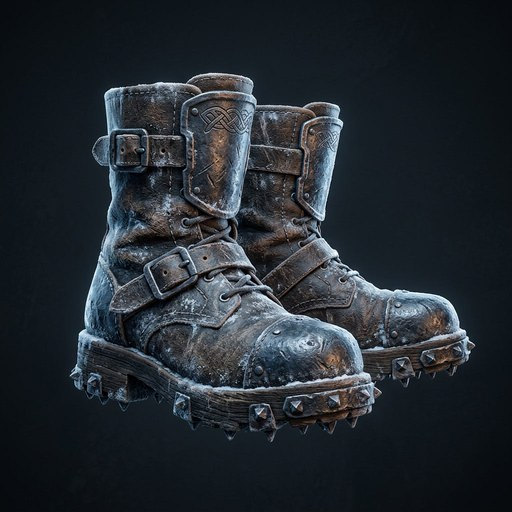
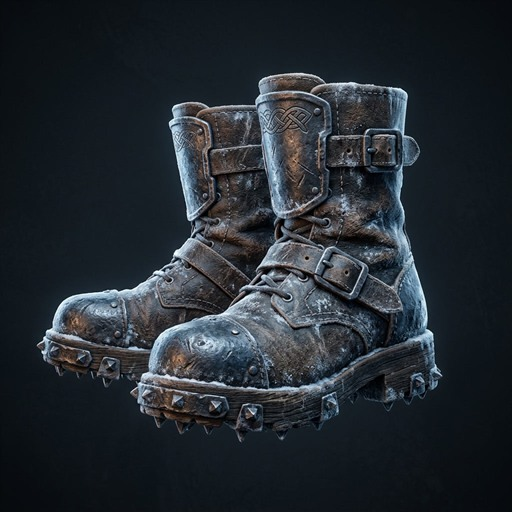
fix(esya): gorsellerin yonu teklestirildi -- hepsi sola bakiyor
Otuz gorselin hepsi etiketli kontakt sayfasina dizilip sayildi: yonu
gercekten belli olan iki grup var, atlar (6) ve cizmeler (3). Atlarin
dordu sola ikisi saga, cizmelerin burnu ise atlarin ters yonundeydi;
kusam izgarasinda yan yana duran iki esya birbirine ters bakiyordu.

Sol secildi cunku en buyuk yonlu grup olan atlarin cogunlugu zaten
oyleydi -- sag secilseydi dort atin sanati degisecekti. Aynalanan bes
dosya: kuzeyRuzgari, savasAti, demirNalliCizme, kurtPostuCizme,
kutupTilkisiPostu.

Aynalama ASILDAN yapildi (items/yedek/, 1024x1024), canli 512'likten
degil: canlidan aynalasaydik ikinci bir JPEG kaybi binerdi. yedek/
ellenmedi -- orasi asillarin arsivi, bu bes dosya ona gore aynali.

Aynalanan hicbir gorselde yazi/run yok (kontrol edildi).

diff --git a/client/src/data/yamaNotlari.js b/client/src/data/yamaNotlari.js
@@ -26,6 +26,22 @@
 
 export const YAMA_NOTLARI = [
   {
+    surum: '2026-09-16p',
+    tarih: '16 Eylül 2026',
+    baslik: 'Eşya görselleri aynı yöne bakıyor',
+    notlar: [
+      {
+        id: '20260916-esya-yonu',
+        tur: 'duzeltme',
+        metin: 'EŞYALARIN YÖNÜ DÜZELDİ. Atların ikisi sağa, dördü sola '
+          + 'bakıyordu; çizmelerin burnu da atların ters yönündeydi. '
+          + 'Kuşam ızgarasında yan yana duran iki eşyanın birbirine '
+          + 'ters bakması göze batıyordu. Artık yönü belli olan her '
+          + 'eşya sola bakıyor.',
+      },
+    ],
+  },
+  {
     surum: '2026-09-16o',
     tarih: '16 Eylül 2026',
     baslik: 'Kahraman görevleri',

diff --git a/TODO.md b/TODO.md
@@ -282,6 +282,18 @@ edilebilir boş slotlar orada listelensin (şu an boş hex'e tıklamak gerekiyor
 - **TARAYICIDA UÇTAN UCA DOĞRULANDI**: elçilik kuruldu (Lvl 20), panel "Elçiliğin Lvl 20, yani birliğe 60 üye sığar" diyor; "Kuzey Kurtları" kuruldu, panel "sen: Konung · 1/60" gösteriyor; oyuncu adıyla davet gönderildi ve "CEVAP BEKLEYENLER" listesinde GERİ AL düğmesiyle belirdi. Diskte de doğrulandı (`alliances` 1 kayıt, `alliance_members` konung, `alliance_invites` 1 davet). Olmayan bir ada davet `oyuncu_yok` ile reddedildi.
 - Testler: `birlik.test.js` 11 kilit — rütbe merdiveni, yetki tablosu, atma zinciri, Jarl tavanı, üye tavanı sayıları, elçilik şartı, tavanın KABUL ANINDA bakılması, ad doğrulaması (görünmez karakter dahil), amblem listesi, saldırı serbestliği ve elçilik binasının tavanıyla birlik tavanının tutması.
 
+### Eşya görsellerinin yönü tekleştirildi (16 Eylül 2026)
+- İlkan: *"itemlerin yönünü düzenle, biri sağa biri sola bakmasın."*
+- **ÖNCE SAYILDI, SONRA ÇEVRİLDİ.** Otuz görselin hepsi etiketli bir kontakt sayfasına dizilip bakıldı; yönü gerçekten belli olan iki grup var: **atlar (6)** ve **çizmeler (3)**. Zırh, kalkan, miğfer, bileklik ve kolyeler cepheden çizilmiş, yönleri yok.
+- **Yön LEFT seçildi** çünkü en büyük yönlü grup olan atların 4'ü zaten sola bakıyordu. Sağ seçilseydi dört atın sanatı değişecekti; sol seçilince iki at + üç çizme (beş dosya) aynalandı ve atların çoğunluğu olduğu gibi kaldı.
+- Aynalanan dosyalar: `kuzeyRuzgari`, `savasAti`, `demirNalliCizme`, `kurtPostuCizme`, `kutupTilkisiPostu`.
+- **AYNALAMA ASILDAN YAPILDI** (`items/yedek/`, 1024×1024), canlı 512'lik dosyadan değil: canlıdan aynalasaydık ikinci bir JPEG kaybı binerdi. Asıl aynalanıp yeniden 512'ye indirildi, yani canlı dosya yine asıldan tek kuşak uzakta. Kalite 92, boyutlar 56–67 KB (eskisiyle aynı aralıkta).
+- **`items/yedek/` ELLENMEDİ**: orası İlkan'ın verdiği asılların arşivi. Yukarıdaki beş dosya arşivdeki asıllara göre AYNALI — arşivden yeniden türetilirse aynalama tekrar uygulanmalı.
+- Aynalanan hiçbir görselde yazı/rün yok (kontrol edildi); `runBileklik` rünlü ama yönsüz olduğu için listede değil.
+- **DOĞRULANDI**: çevirme sonrası kontakt sayfasında altı atın ve üç çizmenin hepsi sola bakıyor; oyunda kuşam ızgarasında yan yana duran çizme ve at aynı yöne bakıyor.
+
+**AÇIK KALAN (ayrı konu):** iki görselin kendi çerçevesi var — `kuzeyRuzgari` koyu bir tablo çerçevesi, `zincirEtek` açık renkli bir kenarlık. Ötekilerin zemini kenara kadar düz. Kırpılabilir ama bu yön değil çerçeve meselesi; İlkan'a soruldu.
+
 ### Görev zincirine kahraman adımları tamamlandı (16 Eylül 2026)
 - TODO'da bekleyen madde: *"iki tanesi eklendi (konağı kur, seviye 3), macera ve eşya gelince ikisi daha eklenmeli."* İkisi de artık oyunda, adımlar eklendi.
 - **"Yola Çık"** (`ilkMacera`) — ilk macerayı TAMAMLA. **Biriken haktan (`maceraSayisi`) ölçülmüyor**: haktan ölçseydik macerayı yola çıkarmak görevi bitirirdi ve oyuncu ödülü sonucu görmeden alırdı; maceranın öğrettiği şey tam da sonucu. Bunun için yeni bir sayaç geldi: `maceraTamamlanan` (yalnız artıyor, hak harcandıkça azalıyor — ikisi ayrı kavram).
